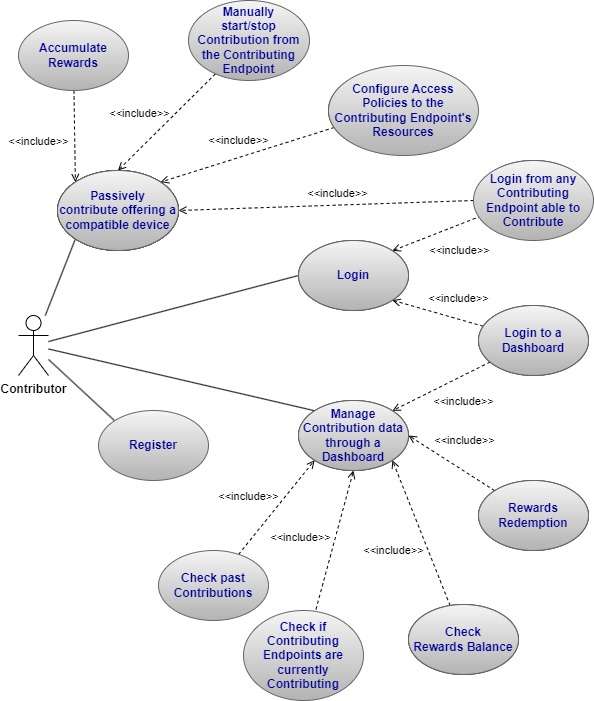
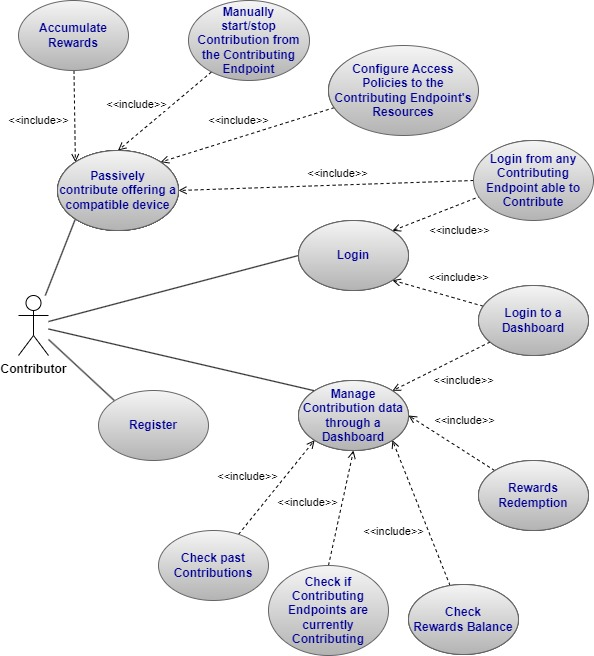
completed use cases section

diff --git a/document/chapters/chapter_5/sections/2_solution_analysis.tex b/document/chapters/chapter_5/sections/2_solution_analysis.tex
@@ -86,23 +86,30 @@ Before continuing, it is important to specify the nomenclatures and relative def
     \item \textbf{Access Policies}\label{access_policies}\\
     \textit{Contribution Endpoint}-specific Access policies defined by the \textit{Contributor}, specifying which \textit{Resources} are offered to the \textit{Grid} for \textit{Contribution}.
 \end{itemize}
+\vspace{20mm}
 
-\subsection{Use cases}
-TODO
+\subsection{Use Cases}
+This section presents the Use Cases diagrams, graphically explaining what features need to be available from the point of view of the two actors interacting with the Grid: the Contributor and the Customer.
 
-%\begin{figure}[!ht]
-    %\centering
-    %\includegraphics[width=\linewidth]{document/chapters/chapter_5/images/contributor_use_cases.jpg}
-    %\caption{Contributor's use cases diagram}
-    %\label{fig:use_cases_contributor}
-%\end{figure}
+An explanation of single use cases here is omitted since the previous section indirectly explained already the non-trivial ones; furthermore, in the next chapter, \textit{section TODO} will show how said use cases are realized using Grid entities collaborating among each other, making redundant a detailed explanation here.
 
-%\begin{figure}[!ht]
-    %\centering
-    %\includegraphics[width=\linewidth]{document/chapters/chapter_5/images/customer_use_cases.jpg}
-    %\caption{Customer's use cases diagram}
-    %\label{fig:use_cases_customer}
-%\end{figure}
+\begin{itemize}
+\item \textbf{Contributor}
+\begin{figure}[!ht]
+    \centering
+    \includegraphics[scale=0.65]{document/chapters/chapter_5/images/contributor_use_cases.jpg}
+    \caption{Use Cases diagram - Contributor}
+    \label{fig:use_cases_contributor}
+\end{figure}
+
+\item \textbf{Customer}
+\begin{figure}[!ht]
+    \centering
+    \includegraphics[scale=0.67]{document/chapters/chapter_5/images/customer_use_cases.jpg}
+    \caption{Use cases diagram - Customer}
+    \label{fig:use_cases_customer}
+\end{figure}
+\end{itemize}
 
 \subsection{Requirements: MoSCoW Prioritization}
 Now that it is clear what the system needs to do from the perspective of the two major actors utilizing it (Contributor and Customer), it is possible to create a list of requirements that such system needs to satisfy. To do so, the MoSCoW method will be used.
